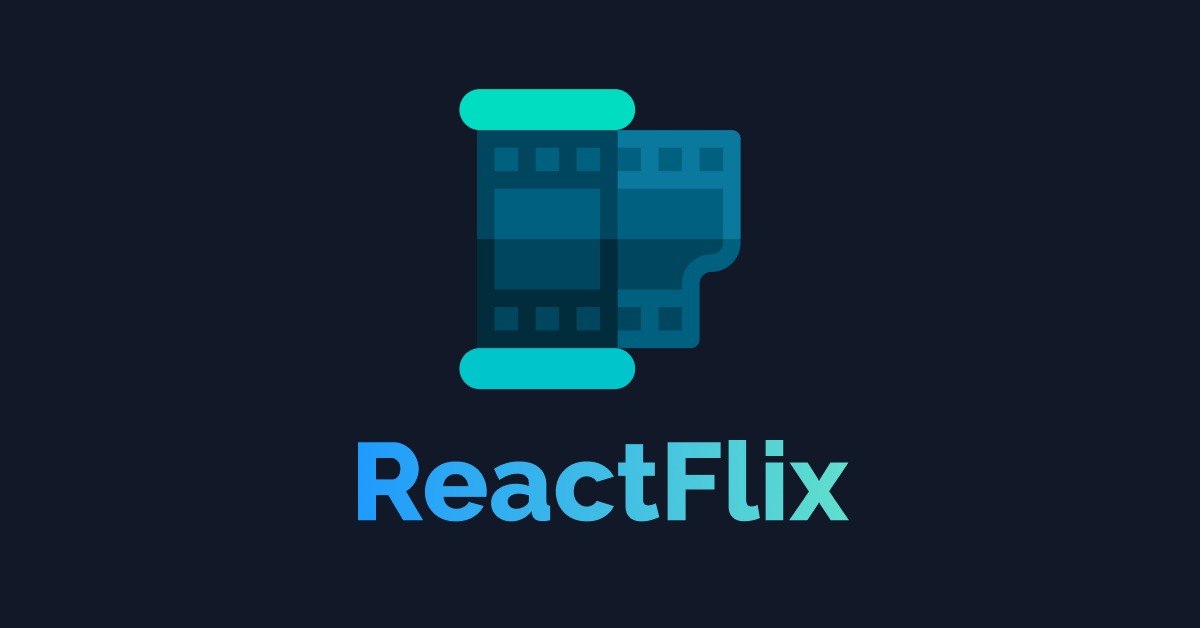
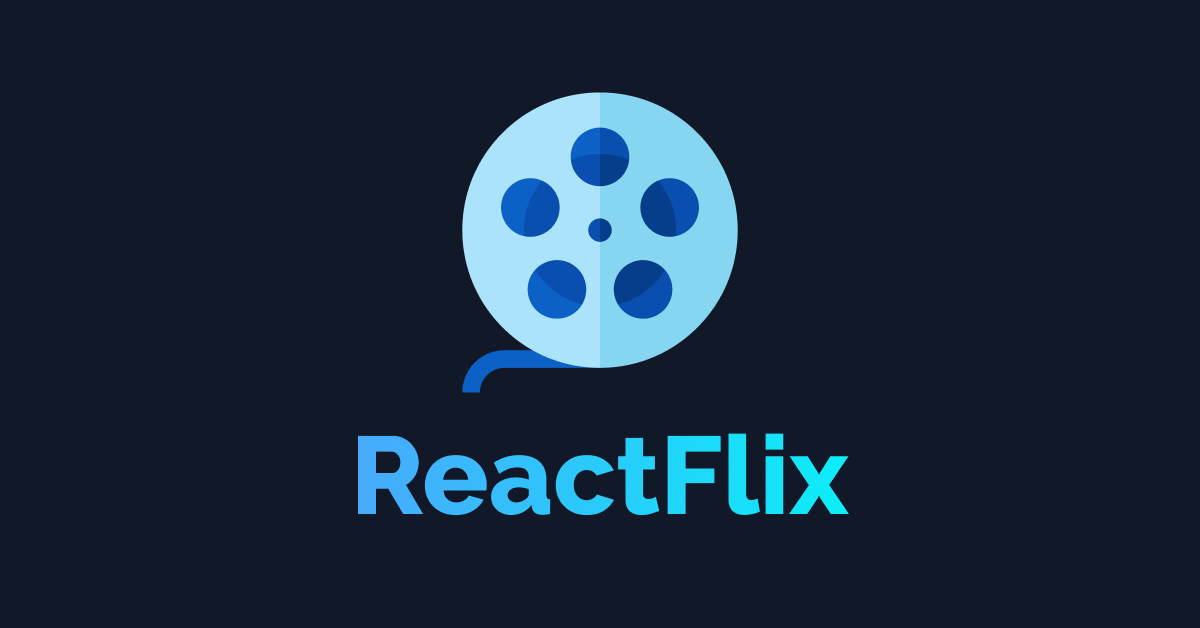
SearchBar added ✔

Changed region(s): [[0.37, 0.121, 0.6167, 0.6354], [0.2775, 0.6656, 0.7092, 0.8471]]

diff --git a/components/Home/SearchBar.tsx b/components/Home/SearchBar.tsx
@@ -1,0 +1,96 @@
+import React, { useCallback, useState } from "react";
+import _ from "lodash";
+import axios from "axios";
+import { TVResult } from "../../types/tv";
+import { MovieResult } from "../../types/movie";
+import { BASE_URL } from "../../constants/api_constants";
+import { SearchResult } from "../../types/types";
+import Link from "next/link";
+
+const SearchBar = () => {
+  const [results, setResults] = useState<SearchResult[]>([]);
+
+  const delayedQuery = useCallback(
+    _.debounce((q) => sendQuery(q), 400),
+    []
+  );
+
+  const handleChange = (e) => {
+    delayedQuery(e.target.value);
+  };
+
+  const sendQuery = (query: string) => {
+    if (query === "") setResults([]);
+    axios
+      .get<TVResult & MovieResult>(`${BASE_URL}search/multi?`, {
+        params: {
+          query: query,
+          api_key: process.env.NEXT_PUBLIC_TMDB_KEY,
+          language: "en-US",
+          page: 1,
+        },
+      })
+      .then((res) => {
+        const list: SearchResult[] = res.data.results
+          .filter(
+            (results) =>
+              results["media_type"] === "tv" ||
+              results["media_type"] === "movie"
+          )
+          .map((result) => {
+            if (result["media_type"] === "tv")
+              return { title: result.name, path: `/tv/${result.id}` };
+            if (result["media_type"] === "movie")
+              return { title: result["title"], path: `/movie/${result.id}` };
+          })
+          .slice(0, 8);
+        setResults(list);
+      })
+      .catch((err) => console.error(err));
+  };
+
+  const resultSuggestions = results.map((result) => {
+    console.log(result);
+
+    return (
+      <Link href={result.path} key={result.path}>
+        <div className="text-gray-800 dark:text-gray-100 bg-gray-100 dark:bg-gray-700 px-3 py-2 cursor-pointer hover:bg-gray-200 dark:hover:bg-gray-800 overflow-hidden font-heading font-medium rounded-md">
+          <p>{result.title}</p>
+        </div>
+      </Link>
+    );
+  });
+
+  return (
+    <>
+      <div className="relative flex w-full flex-wrap items-stretch mb-2 mt-4">
+        <span className="z-10 h-full leading-snug font-normal absolute text-center text-gray-800 dark:text-gray-200 bg-transparent rounded text-base items-center justify-center w-8 pl-3 py-3">
+          <svg
+            xmlns="http://www.w3.org/2000/svg"
+            fill="none"
+            viewBox="0 0 24 24"
+            stroke="currentColor"
+          >
+            <path
+              strokeLinecap="round"
+              strokeLinejoin="round"
+              strokeWidth={2}
+              d="M21 21l-6-6m2-5a7 7 0 11-14 0 7 7 0 0114 0z"
+            />
+          </svg>
+        </span>
+        <input
+          type="text"
+          placeholder="Search for Movies and TV Shows..."
+          className="px-3 py-3 placeholder-gray-800 text-gray-800 relative bg-gray-100 rounded text-sm shadow outline-none focus:outline-none focus:shadow-outline w-full pl-10 dark:placeholder-gray-200 dark:bg-gray-700 dark:text-gray-200"
+          onChange={handleChange}
+        />
+        <div className="flex w-full dark:bg-gray-700 bg-gray-100 z-10 rounded-md flex-col absolute top-12 left-0">
+          {resultSuggestions}
+        </div>
+      </div>
+    </>
+  );
+};
+
+export default SearchBar;

diff --git a/pages/index.tsx b/pages/index.tsx
@@ -1,5 +1,6 @@
 import Head from "next/head";
 import PosterList from "../components/Home/PosterList";
+import SearchBar from "../components/Home/SearchBar";
 import MetaTags from "../components/meta/MetaTags";
 import { MOVIE_TYPE, TV_TYPE } from "../constants/api_constants";
 
@@ -16,6 +17,7 @@ const Home = () => {
         />
         <link rel="icon" href="https://movies.sanketnaik.dev/favicon.ico" />
       </Head>
+      <SearchBar />
       <PosterList
         title="Popular Movies"
         endpoint="movie/popular"

diff --git a/components/Shared/Details.tsx b/components/Shared/Details.tsx
@@ -137,7 +137,7 @@ const Details: React.FC<Props> = ({
             </div>
           </div>
         </div>
-        <div className="ml-3 mr-1">
+        <div className="ml-3 mr-1 mt-5 sm:mt-2">
           <PosterList
             title={similarTitle}
             endpoint={similarEndpoint}

diff --git a/pages/_document.tsx b/pages/_document.tsx
@@ -11,7 +11,6 @@ class MyDocument extends Document {
     return (
       <Html lang="en">
         <Head>
-          <title>ReactFlix</title>
           <link rel="icon" href="https://movies.sanketnaik.dev/favicon.ico" />
         </Head>
         <body>

diff --git a/tailwind.config.js b/tailwind.config.js
@@ -5,8 +5,8 @@ module.exports = {
     extend: {
       colors: {
         reactflix: {
-          start: "#1E9AFE",
-          end: "#60DFCD",
+          start: "#48A9FE",
+          end: "#0BEEF9",
         },
       },
       fontFamily: {

diff --git a/types/types.d.ts b/types/types.d.ts
@@ -22,3 +22,8 @@ export interface Poster {
   vote_count: number;
   width: number;
 }
+
+export interface SearchResult {
+  title: string;
+  path: string;
+}
